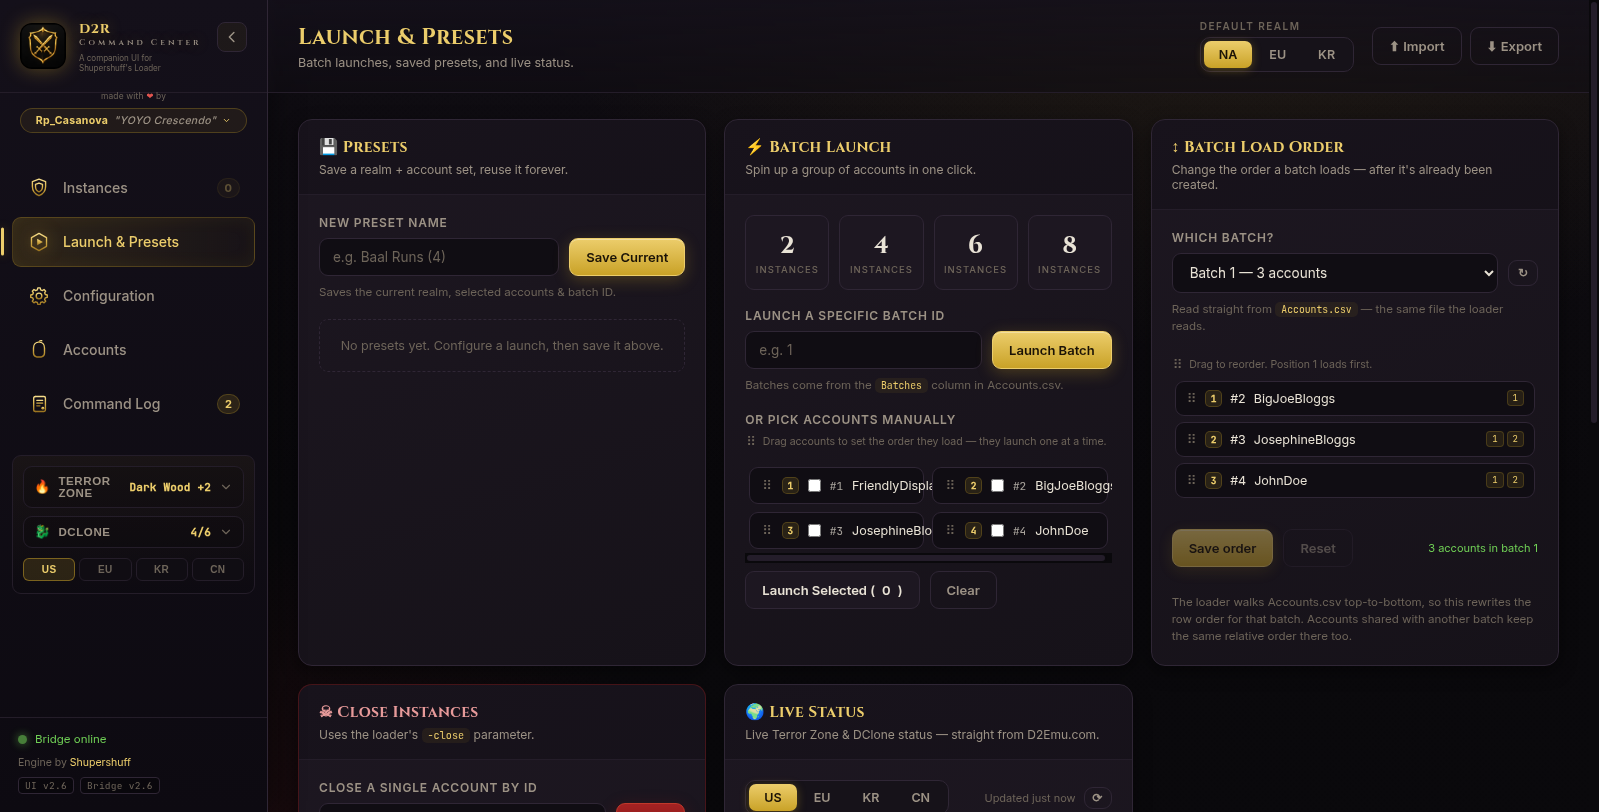
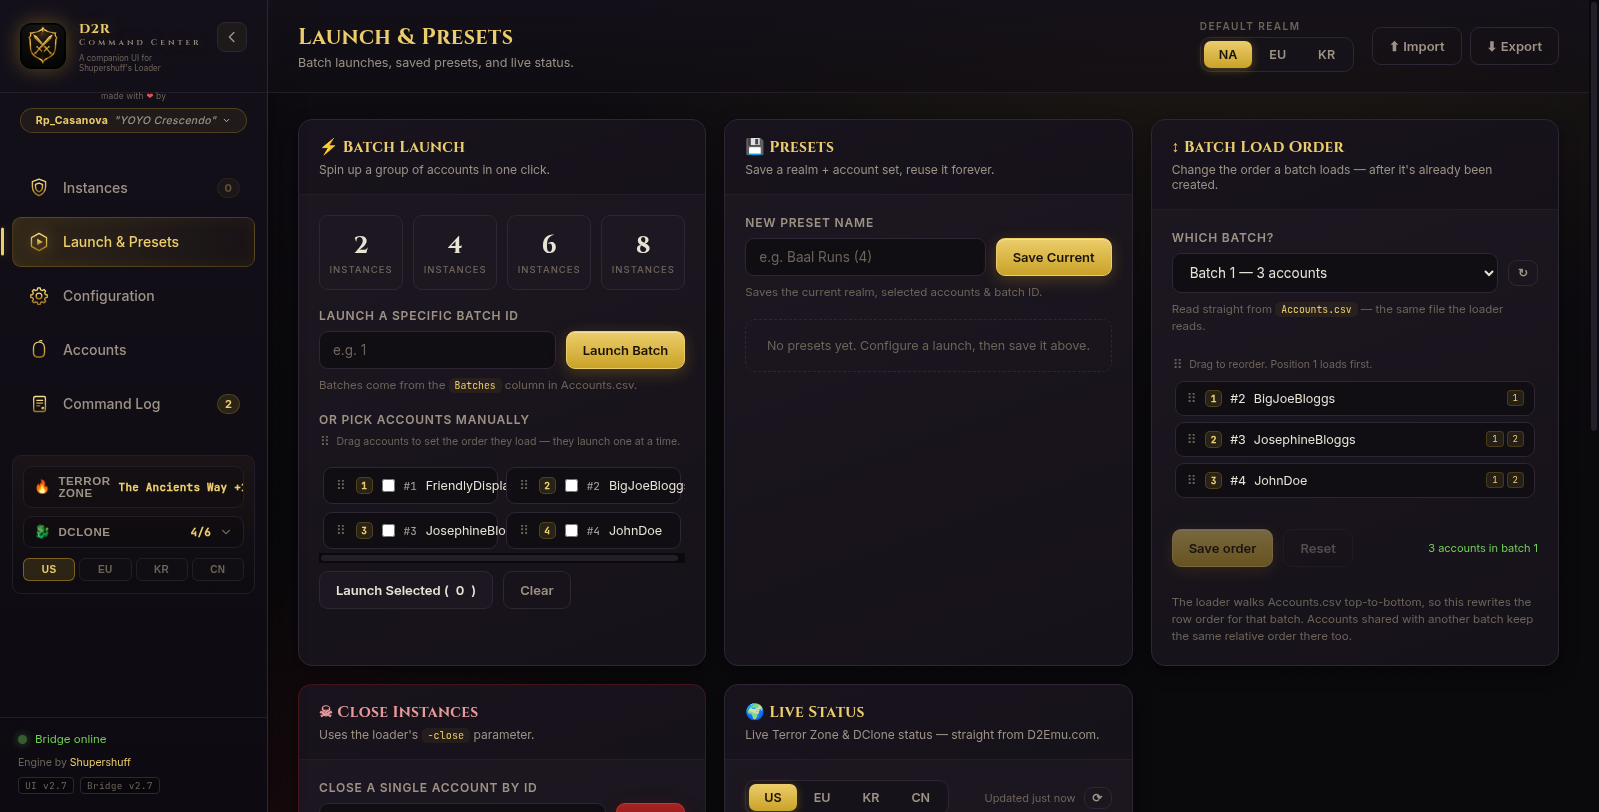
D2R Command Center v2.7 - Batch Launch on top, account emails hidden by default

diff --git a/app/app.js b/app/app.js
@@ -115,6 +115,8 @@ const state = {
   bridgeInfo: null,    // last /api/ping payload (paths + status)
   scriptPath: "D2Loader.ps1",
   showEmails: false,   // privacy: hide account emails on the Instances screen by default
+  showAcctEmails: false, // privacy: hide emails in the Accounts table by default
+  acctReveal: new Set(), // row indexes revealed one-by-one in the Accounts table
   sidebarCollapsed: false,
   accountRegions: {},  // per-account region override: { "1": "2", ... } keyed by account ID
   liveRegion: "us",    // live-status region (default US / Americas)
@@ -827,12 +829,33 @@ function tokenBadge(tok) {
   return '<span class="tok-badge plain">⚠ plain</span>';
 }
 
+/* Mask an email so it is still recognisable but not readable on stream.
+   "john.doe@gmail.com" -> "j\u2022\u2022\u2022@\u2022\u2022\u2022.com" */
+function maskEmail(v) {
+  const s = String(v == null ? "" : v).trim();
+  if (!s) return "";
+  const at = s.indexOf("@");
+  if (at < 1) return s.slice(0, 1) + "\u2022".repeat(Math.max(3, s.length - 1));
+  const user = s.slice(0, at);
+  const dom = s.slice(at + 1);
+  const dot = dom.lastIndexOf(".");
+  const dname = dot > 0 ? dom.slice(0, dot) : dom;
+  const tld = dot > 0 ? dom.slice(dot) : "";
+  const bullets = (n) => "\u2022".repeat(Math.max(2, n));
+  return user.slice(0, 1) + bullets(user.length - 1) + "@" + dname.slice(0, 1) + bullets(dname.length - 1) + tld;
+}
+
 function renderAccountsTable() {
   const body = $("#acctTableBody");
-  body.innerHTML = state.accounts.map((a, i) => `
+  body.innerHTML = state.accounts.map((a, i) => {
+    const revealed = state.showAcctEmails || state.acctReveal.has(i);
+    const emailCell = revealed
+      ? `<input type="text" data-f="Acct" value="${esc(a.Acct)}" />`
+      : `<div class="email-masked" title="Email hidden \u2014 click the eye to reveal just this one"><span class="em-mask">${esc(maskEmail(a.Acct)) || "\u2014"}</span><button type="button" class="em-reveal" data-reveal-email="${i}" title="Reveal this email" aria-label="Reveal this email">\ud83d\udc41</button></div>`;
+    return `
     <tr data-row="${i}">
       <td class="col-id"><input type="text" data-f="ID" value="${esc(a.ID)}" /></td>
-      <td class="col-email"><input type="text" data-f="Acct" value="${esc(a.Acct)}" /></td>
+      <td class="col-email">${emailCell}</td>
       <td class="col-label"><input type="text" data-f="AccountLabel" value="${esc(a.AccountLabel)}" class="label-input" /></td>
       <td class="col-batches"><input type="text" data-f="Batches" value="${esc(a.Batches)}" /></td>
       <td>
@@ -848,10 +871,16 @@ function renderAccountsTable() {
       </td>
       <td class="col-token">${tokenBadge(a.Token)}</td>
       <td class="col-actions">
-        <button class="btn btn-gold btn-sm" data-get-token="${i}" title="Get Battle.net token">🔑</button>
-        <button class="btn btn-danger btn-sm" data-del-row="${i}" title="Remove">✕</button>
+        <button class="btn btn-gold btn-sm" data-get-token="${i}" title="Get Battle.net token">\ud83d\udd11</button>
+        <button class="btn btn-danger btn-sm" data-del-row="${i}" title="Remove">\u2715</button>
       </td>
-    </tr>`).join("");
+    </tr>`;
+  }).join("");
+
+  $$("[data-reveal-email]", body).forEach((b) => b.addEventListener("click", () => {
+    state.acctReveal.add(+b.dataset.revealEmail);
+    renderAccountsTable();
+  }));
 
   $$("[data-row] input, [data-row] select", body).forEach((el) => {
     el.addEventListener("change", () => {
@@ -888,6 +917,7 @@ const LS = {
   presets: "d2rcc.presets",
   region: "d2rcc.region",
   showEmails: "d2rcc.showEmails",
+  showAcctEmails: "d2rcc.showAcctEmails",
   sidebar: "d2rcc.sidebarCollapsed",
   accountRegions: "d2rcc.accountRegions",
   liveRegion: "d2rcc.liveRegion",
@@ -899,6 +929,7 @@ function saveRegion() { try { localStorage.setItem(LS.region, state.region); } c
 function savePrefs() {
   try {
     localStorage.setItem(LS.showEmails, state.showEmails ? "1" : "0");
+    localStorage.setItem(LS.showAcctEmails, state.showAcctEmails ? "1" : "0");
     localStorage.setItem(LS.sidebar, state.sidebarCollapsed ? "1" : "0");
   } catch (e) {}
 }
@@ -914,6 +945,7 @@ function loadFromLocalStorage() {
     const p = localStorage.getItem(LS.presets); if (p) state.presets = JSON.parse(p);
     const r = localStorage.getItem(LS.region); if (r) state.region = r;
     state.showEmails = localStorage.getItem(LS.showEmails) === "1";
+    state.showAcctEmails = localStorage.getItem(LS.showAcctEmails) === "1";
     state.sidebarCollapsed = localStorage.getItem(LS.sidebar) === "1";
     const ar = localStorage.getItem(LS.accountRegions); if (ar) state.accountRegions = JSON.parse(ar) || {};
     const lr = localStorage.getItem(LS.liveRegion); if (lr && LIVE_REGION_LABEL[lr]) state.liveRegion = lr;
@@ -956,7 +988,7 @@ async function detectBridge() {
   }
 }
 
-const UI_VERSION = "2.6";
+const UI_VERSION = "2.7";
 
 function updateVersionBadges() {
   const ui = $("#uiVersion"), br = $("#bridgeVersion");
@@ -1527,6 +1559,26 @@ function toggleEmails() {
   toast(state.showEmails ? "Showing account emails" : "Hiding account emails", "ok", state.showEmails ? "👁" : "👁");
 }
 
+function applyAcctEmailToggle() {
+  const btn = $("#btnAcctEmails");
+  if (!btn) return;
+  btn.classList.toggle("on", !!state.showAcctEmails);
+  btn.setAttribute("aria-pressed", state.showAcctEmails ? "true" : "false");
+  const lbl = $("#acctEmailsLbl");
+  if (lbl) lbl.textContent = state.showAcctEmails ? "Hide emails" : "Show emails";
+  const ico = $("#acctEmailsIco");
+  if (ico) ico.textContent = state.showAcctEmails ? "\ud83d\ude48" : "\ud83d\udc41";
+}
+
+function toggleAcctEmails() {
+  state.showAcctEmails = !state.showAcctEmails;
+  if (!state.showAcctEmails) state.acctReveal.clear();
+  savePrefs();
+  applyAcctEmailToggle();
+  renderAccountsTable();
+  toast(state.showAcctEmails ? "Showing account emails" : "Account emails hidden", "ok", "\ud83d\udc41");
+}
+
 async function testLoader() {
   if (!state.bridgeOnline) { toast("Bridge offline", "err"); return; }
   const btn = $("#btnTestLoader");
@@ -1552,9 +1604,11 @@ async function testLoader() {
 function bindV14() {
   const t = $("#sidebarToggle"); if (t) t.addEventListener("click", toggleSidebar);
   const e = $("#btnToggleEmails"); if (e) e.addEventListener("click", toggleEmails);
+  const ae = $("#btnAcctEmails"); if (ae) ae.addEventListener("click", toggleAcctEmails);
   const tl = $("#btnTestLoader"); if (tl) tl.addEventListener("click", testLoader);
   applySidebarState();
   applyEmailToggle();
+  applyAcctEmailToggle();
 }
 
 /* ---- "Rp_Casanova" socials drop-down in the sidebar brand ---- */

diff --git a/app/index.html b/app/index.html
@@ -122,7 +122,7 @@
         Engine by <a href="https://github.com/shupershuff/Diablo2RLoader" target="_blank" rel="noopener">Shupershuff</a>
       </div>
       <div class="ver-line" title="UI version and the bridge version it's talking to">
-        <span class="ver-badge" id="uiVersion">UI v2.6</span>
+        <span class="ver-badge" id="uiVersion">UI v2.7</span>
         <span class="ver-badge" id="bridgeVersion">Bridge —</span>
       </div>
     </div>
@@ -206,26 +206,6 @@
     <section class="view" id="view-launch">
       <div class="panel-grid">
 
-        <!-- PRESETS -->
-        <div class="panel">
-          <div class="panel-head">
-            <h3>💾 Presets</h3>
-            <p>Save a realm + account set, reuse it forever.</p>
-          </div>
-          <div class="panel-body">
-            <div class="field">
-              <label>New preset name</label>
-              <div class="row">
-                <input type="text" id="presetName" placeholder="e.g. Baal Runs (4)" />
-                <button class="btn btn-primary" id="btnSavePreset">Save Current</button>
-              </div>
-              <p class="hint">Saves the current realm, selected accounts &amp; batch ID.</p>
-            </div>
-            <div class="preset-list" id="presetList"><!-- presets injected --></div>
-          </div>
-        </div>
-
-
         <!-- BATCH -->
         <div class="panel">
           <div class="panel-head">
@@ -258,6 +238,26 @@
             </div>
           </div>
         </div>
+
+        <!-- PRESETS -->
+        <div class="panel">
+          <div class="panel-head">
+            <h3>💾 Presets</h3>
+            <p>Save a realm + account set, reuse it forever.</p>
+          </div>
+          <div class="panel-body">
+            <div class="field">
+              <label>New preset name</label>
+              <div class="row">
+                <input type="text" id="presetName" placeholder="e.g. Baal Runs (4)" />
+                <button class="btn btn-primary" id="btnSavePreset">Save Current</button>
+              </div>
+              <p class="hint">Saves the current realm, selected accounts &amp; batch ID.</p>
+            </div>
+            <div class="preset-list" id="presetList"><!-- presets injected --></div>
+          </div>
+        </div>
+
 
         <!-- BATCH LOAD ORDER (v2.5) -->
         <div class="panel">
@@ -419,6 +419,9 @@
       <div class="config-toolbar">
         <p class="hint">Add &amp; edit accounts — this writes to <code>Accounts.csv</code>. Passwords stay in the loader's own encrypted format.</p>
         <div class="row">
+          <button class="btn btn-ghost" id="btnAcctEmails" aria-pressed="false" title="Emails are hidden by default so you cannot accidentally show them on stream">
+            <span class="ico" id="acctEmailsIco">👁</span><span id="acctEmailsLbl">Show emails</span>
+          </button>
           <button class="btn btn-gold" id="btnGetTokenTop">🔑 Get Token</button>
           <button class="btn btn-secondary" id="btnAddAccount">＋ Add Account</button>
           <button class="btn btn-primary" id="btnExportAccounts">⬇ Export Accounts.csv</button>

diff --git a/app/styles.css b/app/styles.css
@@ -1060,3 +1060,19 @@ input::placeholder { color: var(--text-faint); }
 /* Sidebar live block sits directly under the nav (Command Log) and
    expands downward instead of being pushed to the bottom. */
 .side-live { flex: 0 0 auto; }
+
+/* ---------- accounts email privacy (v2.7) ---------- */
+.email-masked { display: flex; align-items: center; gap: 6px; }
+.email-masked .em-mask {
+  font-family: var(--font-mono, ui-monospace, "Consolas", monospace);
+  font-size: 12.5px; letter-spacing: .5px; color: var(--text-faint, #6d655a);
+  background: rgba(255,255,255,.03); border: 1px dashed var(--border-soft);
+  border-radius: 5px; padding: 4px 8px; min-width: 170px; user-select: none;
+}
+.email-masked .em-reveal {
+  flex: none; width: 26px; height: 26px; display: inline-flex; align-items: center; justify-content: center;
+  background: transparent; border: 1px solid var(--border-soft); border-radius: 5px;
+  color: var(--text-faint, #6d655a); font-size: 11px; cursor: pointer; transition: all .14s;
+}
+.email-masked .em-reveal:hover { border-color: var(--gold-dim); color: var(--gold-bright); background: rgba(201,162,39,.1); }
+#btnAcctEmails.on { border-color: rgba(201,162,39,.5); background: rgba(201,162,39,.16); color: var(--gold-bright); }

diff --git a/app/server.js b/app/server.js
@@ -33,7 +33,7 @@ const ROOT = path.resolve(__dirname, ".");          // app/  (web files live her
 const BASE = path.resolve(__dirname, "..");         // install root (assets/, data/, scripts/)
 const PORT = process.env.PORT || 8787;
 const CONFIG_FILE = path.join(BASE, "bridge.config.json");
-const VERSION = "2.6";
+const VERSION = "2.7";
 
 /* ---- background / headless mode ----
    --no-browser (or D2R_NO_BROWSER=1) => never open a browser window.

diff --git a/docs/README.md b/docs/README.md
@@ -116,7 +116,7 @@ you.
 3. It finds your existing install, **stops** it, **removes the old files**,
    **copies the new ones in**, keeps your `bridge.config.json` + `data\`, and
    **restarts** the app. It never touches `D2Loader.ps1`.
-4. Confirm: the **sidebar footer** shows **`UI v2.6`** and **`Bridge v2.6`**.
+4. Confirm: the **sidebar footer** shows **`UI v2.7`** and **`Bridge v2.7`**.
 
 **Option B — flat overwrite:**
 
@@ -233,7 +233,7 @@ files you actually need, and everything else lives in sub-folders.
 ```
 d2r-command-center/
 ├─ README.txt                    ← START HERE — simple end-user quick-start
-├─ VERSION.txt                   ← the installed version (2.6)
+├─ VERSION.txt                   ← the installed version (2.7)
 ├─ Install-D2R-Command-Center.bat  ← ONE-CLICK setup (Node + deps + loader + icon + launch)
 ├─ Update-D2R-Command-Center.bat ← ONE-CLICK update of an existing install (removes old files)
 ├─ Create-Desktop-Shortcut.bat   ← (re)create the Desktop shortcut
@@ -324,6 +324,19 @@ wrong, that log will say so — the most common causes are:
 ---
 
 ## Changelog
+
+### v2.7
+
+- **Launch & Presets order reversed.** Batch Launch is back at the top of the
+  panel grid, followed by Presets, then Batch Load Order. This undoes the 2.6
+  swap; the panels are independent blocks, so the order is purely presentational.
+- **Accounts email privacy.** A new **Show emails / Hide emails** button in the
+  Accounts toolbar. Emails are masked by default (`j•••••••@g••••.com`), so a
+  live stream can never accidentally expose a real Battle.net address. The
+  toolbar button reveals or hides every row at once; each row also has a small
+  eye button that reveals only that one address. The preference is stored in
+  `localStorage` under `d2rcc.showAcctEmails`, and per-row reveals are cleared
+  whenever you hide again or reload.
 
 ### v2.6
 - **Sidebar live status moved under Command Log.** The Terror Zone and DClone

diff --git a/PUBLISH.md b/PUBLISH.md
@@ -13,7 +13,7 @@ Everything below is a one-time setup.
 ```
 github\
 ├─ README.md              ← the repo front page (badges, screenshots, features)
-├─ CHANGELOG.md           ← version history, 1.0 → 2.6
+├─ CHANGELOG.md           ← version history, 1.0 → 2.7
 ├─ CONTRIBUTING.md        ← rules (incl. "never modify D2Loader.ps1")
 ├─ SECURITY.md            ← disclosure policy + security posture
 ├─ LICENSE                ← MIT (this project only; his loader is his)
@@ -86,7 +86,7 @@ del d2r-cc-repo\app\package-lock.json
 cd d2r-cc-repo
 git init
 git add .
-git commit -m "D2R Command Center v2.6 - companion UI for Shupershuff's D2R Loader"
+git commit -m "D2R Command Center v2.7 - companion UI for Shupershuff's D2R Loader"
 git branch -M main
 git remote add origin https://github.com/xyoyox/D2R-Command-Center.git
 git push -u origin main
@@ -106,9 +106,9 @@ git push -u origin main
 **Releases:**
 
 1. Releases → *Draft a new release*.
-2. Tag `v2.6`, title `v2.6 — Sidebar live placement, full-width credit, uniform config cards`.
-3. Paste the `## [2.6]` section from `CHANGELOG.md`.
-4. Attach `D2R-Command-Center-v2.6.zip` (the **Core** zip, without `github\`).
+2. Tag `v2.7`, title `v2.7 — Panel order reversed, account emails hidden by default`.
+3. Paste the `## [2.7]` section from `CHANGELOG.md`.
+4. Attach `D2R-Command-Center-v2.7.zip` (the **Core** zip, without `github\`).
 5. Publish.
 
 **Social preview:** Settings → General → Social preview → upload

diff --git a/CHANGELOG.md b/CHANGELOG.md
@@ -9,6 +9,24 @@ Format: [Keep a Changelog](https://keepachangelog.com/en/1.1.0/), versioning is
 
 ---
 
+## [2.7] — Panel order reversed, account emails hidden by default
+
+### Changed
+- **Batch Launch is back on top.** On *Launch & Presets* the panel grid now reads
+  Batch Launch → Presets → Batch Load Order. This simply reverses the 2.6 swap.
+
+### Added
+- **Accounts email privacy toggle.** A **Show emails / Hide emails** button in the
+  Accounts toolbar. Emails are masked by default (`j•••••••@g••••.com`),
+  so a real Battle.net address can never be flashed on stream by accident. The
+  toolbar button reveals/hides every row; a per-row eye button reveals a single
+  address. The choice persists in `localStorage` (`d2rcc.showAcctEmails`).
+
+### Unchanged
+- `D2Loader.ps1` is still byte-for-byte Shupershuff's. No loader files touched.
+
+---
+
 ## [2.6] — Sidebar live placement, full-width credit, uniform config cards
 
 ### Changed

diff --git a/README.md b/README.md
@@ -297,8 +297,8 @@ it, replace program files, **keep** your `bridge.config.json` and `data\`,
 replace files. Your `bridge.config.json` and `data\` are not in the zip, so they
 survive.
 
-After updating, check the sidebar footer: it should read **`UI v2.6`** and
-**`Bridge v2.6`**. If the numbers disagree, the update didn't finish — run the
+After updating, check the sidebar footer: it should read **`UI v2.7`** and
+**`Bridge v2.7`**. If the numbers disagree, the update didn't finish — run the
 updater again.
 
 ---

diff --git a/docs/INSTALL.md b/docs/INSTALL.md
@@ -55,7 +55,7 @@ needs to launch the game.
 
 ### 4. First launch checklist
 
-- Sidebar footer shows **`UI v2.6`** and **`Bridge v2.6`**.
+- Sidebar footer shows **`UI v2.7`** and **`Bridge v2.7`**.
 - Bridge chip is green: **Bridge online** (or **Bridge online · token ready**).
 - **Instances** shows your accounts from `Accounts.csv`.
 - Configuration → Loader & Bridge shows the correct `D2Loader.ps1` path.
